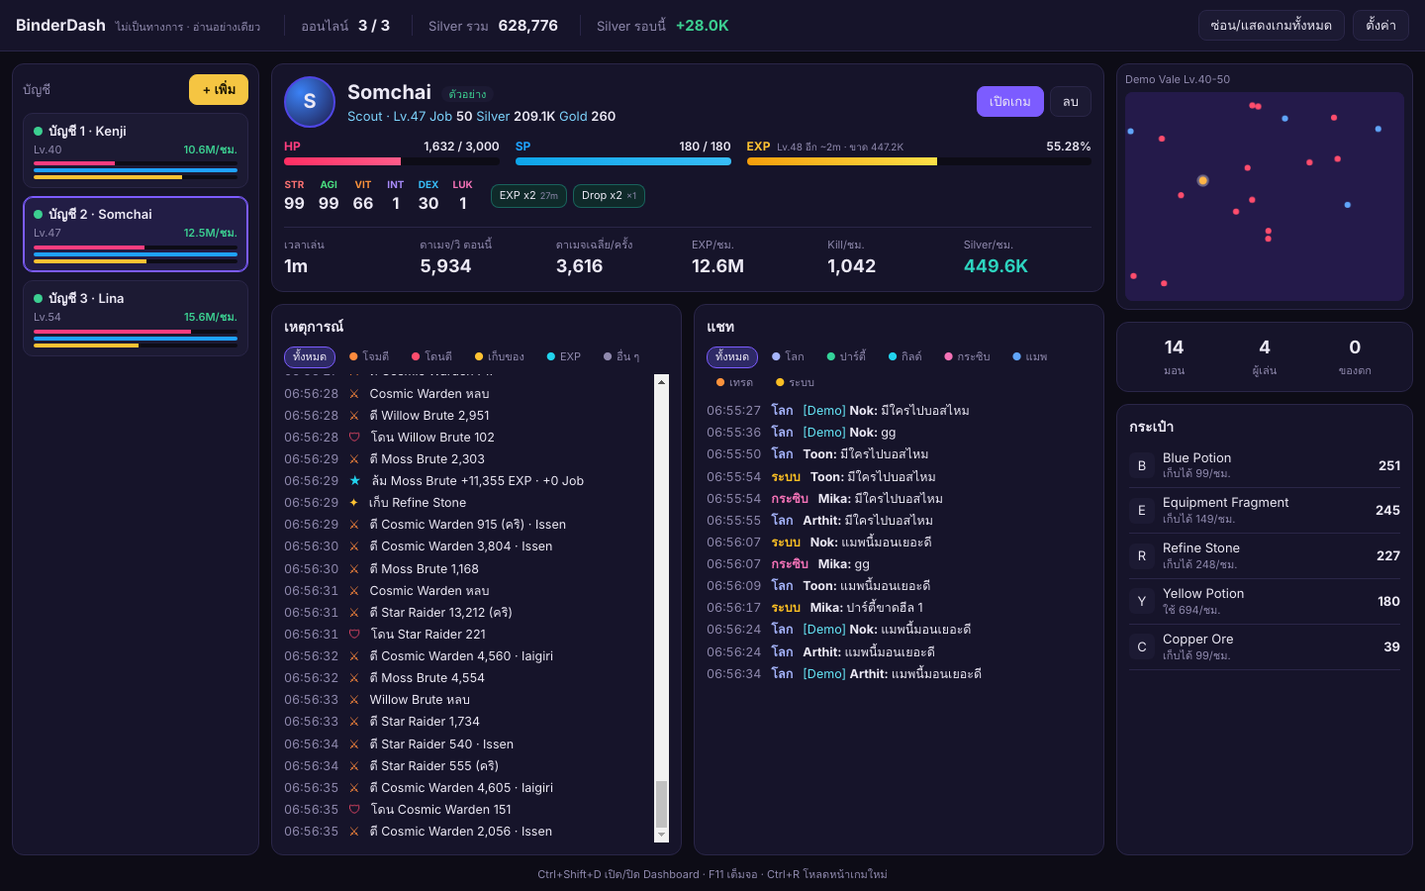
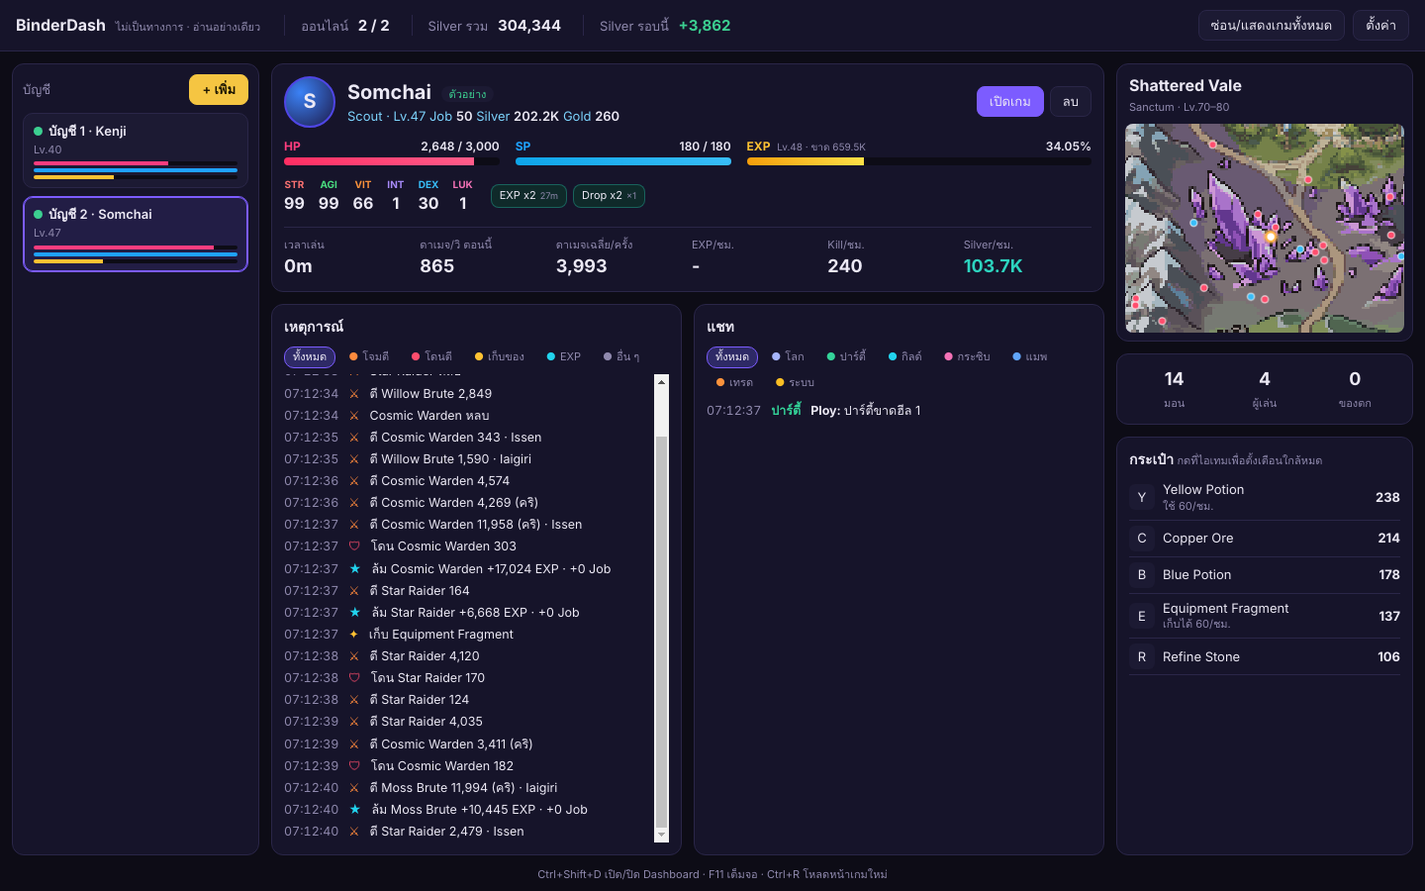
BinderDash: show game windows over the dashboard, map panel with wiki art
'Go to game' opens/restores the game window centred over the dashboard
unless the user moved it; buttons get tooltips; window titles end with
'— Binder Town'. Map panel shows map name, region and level range from a
map list taken from the game's wiki, with the wiki's map art behind the
dots. Fix a stale demo name in new game window titles.

Claude-Session: https://claude.ai/code/session_01P2jK8btWnMpPUhvGB43tpy

diff --git a/bindertown-dash/src/dashboard/maps.js b/bindertown-dash/src/dashboard/maps.js
@@ -1,0 +1,83 @@
+// Binder Town maps (names, regions, level ranges) from wiki.bindertowngame.com/maps, Nov 2026.
+// Map pictures are loaded from the wiki at runtime: https://wiki.bindertowngame.com/img/gen/map/<id>.webp
+window.BT_MAPS = [
+  {"id": "valebrook", "name": "Valebrook", "region": "Region A · Valebrook", "kind": "town", "min": null, "max": null},
+  {"id": "southvale_field", "name": "Southvale Field", "region": "Region A · Valebrook", "kind": "field", "min": 1, "max": 4},
+  {"id": "copperbell_arena", "name": "Copperbell Arena", "region": "Region A · Valebrook", "kind": "field", "min": 1, "max": 115},
+  {"id": "honeyrill", "name": "Honeyrill", "region": "Region A · Valebrook", "kind": "field", "min": 3, "max": 8},
+  {"id": "whispering_woods", "name": "Whispering Woods", "region": "Region A · Valebrook", "kind": "field", "min": 4, "max": 9},
+  {"id": "bloomcrown_glade", "name": "Bloomcrown Glade", "region": "Region A · Valebrook", "kind": "boss", "min": null, "max": null},
+  {"id": "riverside", "name": "Riverside", "region": "Region A · Valebrook", "kind": "field", "min": 6, "max": 12},
+  {"id": "bracken_sink", "name": "Bracken Sink", "region": "Region A · Valebrook", "kind": "field", "min": 9, "max": 15},
+  {"id": "old_quarry", "name": "Old Quarry", "region": "Region A · Valebrook", "kind": "field", "min": 10, "max": 16},
+  {"id": "ancient_ruins", "name": "Ancient Ruins", "region": "Region A · Valebrook", "kind": "field", "min": 14, "max": 20},
+  {"id": "verdigris_rise", "name": "Verdigris Rise", "region": "Region A · Valebrook", "kind": "field", "min": 14, "max": 20},
+  {"id": "ranked_hall", "name": "Ranked Hall", "region": "Region A · Valebrook", "kind": "field", "min": 99, "max": 130},
+  {"id": "ashford", "name": "Ashford", "region": "Region B · Ashford", "kind": "town", "min": null, "max": null},
+  {"id": "sunfield_plains", "name": "Sunfield Plains", "region": "Region B · Ashford", "kind": "field", "min": 18, "max": 24},
+  {"id": "gloomroot_forest", "name": "Gloomroot Forest", "region": "Region B · Ashford", "kind": "field", "min": 24, "max": 30},
+  {"id": "pitchwood", "name": "Pitchwood", "region": "Region B · Ashford", "kind": "field", "min": 24, "max": 30},
+  {"id": "ember_hollow", "name": "Ember Hollow", "region": "Region B · Ashford", "kind": "field", "min": 28, "max": 36},
+  {"id": "yellowlick_flats", "name": "Yellowlick Flats", "region": "Region B · Ashford", "kind": "field", "min": 30, "max": 36},
+  {"id": "cinder_eyrie", "name": "Cinder Eyrie", "region": "Region B · Ashford", "kind": "boss", "min": null, "max": null},
+  {"id": "mistmire_swamp", "name": "Mistmire Swamp", "region": "Region B · Ashford", "kind": "field", "min": 34, "max": 40},
+  {"id": "peatcut_bog", "name": "Peatcut Bog", "region": "Region B · Ashford", "kind": "field", "min": 36, "max": 42},
+  {"id": "lotus_hollow", "name": "Lotus Hollow", "region": "Region B · Ashford", "kind": "boss", "min": null, "max": null},
+  {"id": "duskgate_pass", "name": "Duskgate Pass", "region": "Region B · Ashford", "kind": "field", "min": 40, "max": 45},
+  {"id": "stormwall_city", "name": "Stormwall City", "region": "Region C · Stormwall City", "kind": "town", "min": null, "max": null},
+  {"id": "frostpeak_slopes", "name": "Frostpeak Slopes", "region": "Region C · Stormwall City", "kind": "field", "min": 45, "max": 52},
+  {"id": "sledrun_gully", "name": "Sledrun Gully", "region": "Region C · Stormwall City", "kind": "field", "min": 47, "max": 53},
+  {"id": "frozen_mere", "name": "Frozen Mere", "region": "Region C · Stormwall City", "kind": "field", "min": 52, "max": 58},
+  {"id": "brinecrust_shoals", "name": "Brinecrust Shoals", "region": "Region C · Stormwall City", "kind": "field", "min": 54, "max": 60},
+  {"id": "aurora_hollow", "name": "Aurora Hollow", "region": "Region C · Stormwall City", "kind": "boss", "min": null, "max": null},
+  {"id": "howling_steppes", "name": "Howling Steppes", "region": "Region C · Stormwall City", "kind": "field", "min": 58, "max": 64},
+  {"id": "cloudspire_ruins", "name": "Cloudspire Ruins", "region": "Region C · Stormwall City", "kind": "field", "min": 64, "max": 70},
+  {"id": "kitewind_terraces", "name": "Kitewind Terraces", "region": "Region C · Stormwall City", "kind": "field", "min": 64, "max": 70},
+  {"id": "tempest_aerie", "name": "Tempest Aerie", "region": "Region C · Stormwall City", "kind": "boss", "min": null, "max": null},
+  {"id": "sanctum", "name": "Sanctum", "region": "Region D · Sanctum", "kind": "town", "min": null, "max": null},
+  {"id": "shattered_vale", "name": "Shattered Vale", "region": "Region D · Sanctum", "kind": "field", "min": 70, "max": 80},
+  {"id": "glasswrack", "name": "Glasswrack", "region": "Region D · Sanctum", "kind": "field", "min": 72, "max": 80},
+  {"id": "opalweb_grotto", "name": "Opalweb Grotto", "region": "Region D · Sanctum", "kind": "boss", "min": null, "max": null},
+  {"id": "umbral_depths", "name": "Umbral Depths", "region": "Region D · Sanctum", "kind": "field", "min": 80, "max": 90},
+  {"id": "marrowdeep", "name": "Marrowdeep", "region": "Region D · Sanctum", "kind": "field", "min": 82, "max": 90},
+  {"id": "throne_of_warden", "name": "Throne of the Warden", "region": "Region D · Sanctum", "kind": "field", "min": 90, "max": 99},
+  {"id": "rustbell_barracks", "name": "Rustbell Barracks", "region": "Region D · Sanctum", "kind": "field", "min": 92, "max": 99},
+  {"id": "wardens_seat", "name": "Warden's Seat", "region": "Region D · Sanctum", "kind": "boss", "min": null, "max": null},
+  {"id": "tidehaven", "name": "Tidehaven", "region": "Region E · Tidehaven", "kind": "town", "min": null, "max": null},
+  {"id": "crown_of_tides", "name": "Crown of Tides", "region": "Region E · Tidehaven", "kind": "town", "min": null, "max": null},
+  {"id": "wreckwake_coast", "name": "Wreckwake Coast", "region": "Region E · Tidehaven", "kind": "field", "min": 99, "max": 102},
+  {"id": "nacre_lagoon", "name": "Nacre Lagoon", "region": "Region E · Tidehaven", "kind": "field", "min": 99, "max": 130},
+  {"id": "keelbreak_cove", "name": "Keelbreak Cove", "region": "Region E · Tidehaven", "kind": "boss", "min": null, "max": null},
+  {"id": "lanternrice_delta", "name": "Lanternrice Delta", "region": "Region E · Tidehaven", "kind": "field", "min": 101, "max": 104},
+  {"id": "ricewater_shrine", "name": "Ricewater Shrine", "region": "Region E · Tidehaven", "kind": "boss", "min": null, "max": null},
+  {"id": "coralstep_plateau", "name": "Coralstep Plateau", "region": "Region E · Tidehaven", "kind": "field", "min": 103, "max": 106},
+  {"id": "coralhorn_shelf", "name": "Coralhorn Shelf", "region": "Region E · Tidehaven", "kind": "boss", "min": null, "max": null},
+  {"id": "drowned_forum", "name": "Drowned Forum", "region": "Region E · Tidehaven", "kind": "field", "min": 105, "max": 108},
+  {"id": "magistrates_basin", "name": "Magistrate's Basin", "region": "Region E · Tidehaven", "kind": "boss", "min": null, "max": null},
+  {"id": "stormrail_causeway", "name": "Stormrail Causeway", "region": "Region E · Tidehaven", "kind": "field", "min": 107, "max": 110},
+  {"id": "thunderline_depot", "name": "Thunderline Depot", "region": "Region E · Tidehaven", "kind": "boss", "min": null, "max": null},
+  {"id": "shellforge_basin", "name": "Shellforge Basin", "region": "Region E · Tidehaven", "kind": "field", "min": 110, "max": 113},
+  {"id": "searing_kilnyard", "name": "Searing Kilnyard", "region": "Region E · Tidehaven", "kind": "boss", "min": null, "max": null},
+  {"id": "moonpool_gardens", "name": "Moonpool Gardens", "region": "Region E · Tidehaven", "kind": "field", "min": 113, "max": 116},
+  {"id": "brinewick_saltworks", "name": "Brinewick Saltworks", "region": "Region E · Tidehaven", "kind": "field", "min": 115, "max": 118},
+  {"id": "saltwight_pans", "name": "Saltwight Pans", "region": "Region E · Tidehaven", "kind": "boss", "min": null, "max": null},
+  {"id": "the_inverted_sea", "name": "The Inverted Sea", "region": "Region E · Tidehaven", "kind": "field", "min": 117, "max": 120},
+  {"id": "upturned_strand", "name": "Upturned Strand", "region": "Region E · Tidehaven", "kind": "boss", "min": null, "max": null},
+  {"id": "tidepool_terraces", "name": "Tidepool Terraces", "region": "Region E · Tidehaven", "kind": "field", "min": 119, "max": 122},
+  {"id": "pearlgrave_trench", "name": "Pearlgrave Trench", "region": "Region E · Tidehaven", "kind": "field", "min": 120, "max": 123},
+  {"id": "tidemill_expanse", "name": "Tidemill Expanse", "region": "Region E · Tidehaven", "kind": "field", "min": 121, "max": 124},
+  {"id": "gullrock_rookery", "name": "Gullrock Rookery", "region": "Region E · Tidehaven", "kind": "field", "min": 122, "max": 125},
+  {"id": "leviathan_spine", "name": "Leviathan Spine", "region": "Region E · Tidehaven", "kind": "field", "min": 123, "max": 126},
+  {"id": "marrowfall_gorge", "name": "Marrowfall Gorge", "region": "Region E · Tidehaven", "kind": "boss", "min": null, "max": null},
+  {"id": "bellglass_cathedral", "name": "Bellglass Cathedral", "region": "Region E · Tidehaven", "kind": "field", "min": 124, "max": 127},
+  {"id": "kelpgate_locks", "name": "Kelpgate Locks", "region": "Region E · Tidehaven", "kind": "field", "min": 125, "max": 128},
+  {"id": "lockwardens_sluice", "name": "Lockwarden's Sluice", "region": "Region E · Tidehaven", "kind": "boss", "min": null, "max": null},
+  {"id": "training_grounds", "name": "Training Grounds", "region": "แมพพิเศษ", "kind": "special", "min": null, "max": null},
+  {"id": "sparring_hall", "name": "Sparring Hall", "region": "แมพพิเศษ", "kind": "special", "min": null, "max": null},
+  {"id": "rootfall_barrow", "name": "Rootfall Barrow", "region": "แมพพิเศษ", "kind": "special", "min": null, "max": null},
+  {"id": "ll_ch1", "name": "Gauntlet · Valebrook Gate", "region": "แมพพิเศษ", "kind": "special", "min": null, "max": null},
+  {"id": "ll_ch2", "name": "Gauntlet · Ashford Gate", "region": "แมพพิเศษ", "kind": "special", "min": null, "max": null},
+  {"id": "ll_ch3", "name": "Gauntlet · Stormwall Gate", "region": "แมพพิเศษ", "kind": "special", "min": null, "max": null},
+  {"id": "ll_ch4", "name": "Gauntlet · Sanctum Gate", "region": "แมพพิเศษ", "kind": "special", "min": null, "max": null},
+  {"id": "ll_ch5", "name": "Gauntlet · The Last Gate", "region": "แมพพิเศษ", "kind": "special", "min": null, "max": null},
+];

diff --git a/bindertown-dash/src/dashboard/dashboard.js b/bindertown-dash/src/dashboard/dashboard.js
@@ -104,16 +104,16 @@ function startRename(a, node) {
 function profileButtons(a) {
   const b = [];
   if (a.status === 'closed' || a.status === 'demo') {
-    b.push(el('button', { class: 'primary', onclick: async () => {
+    b.push(el('button', { class: 'primary', title: 'เปิดหน้าต่างเกมของบัญชีนี้', onclick: async () => {
       const r = await dash.invoke('open', a.id);
       if (r && r.warnFreeLimit) showBanner('เปิดเกิน 3 ตัวแล้ว: ตรวจกฎของเกมเรื่องจำนวนตัวละครต่อ IP ด้วย');
     } }, 'เปิดเกม'));
   } else {
-    b.push(el('button', { onclick: () => dash.invoke('reload', a.id) }, '⟳ รีเฟรช'));
+    b.push(el('button', { title: 'โหลดหน้าเกมใหม่ (เหมือน Ctrl+R) ตอนเกมค้าง', onclick: () => dash.invoke('reload', a.id) }, '⟳ รีเฟรช'));
     b.push(a.hidden
-      ? el('button', { onclick: () => dash.invoke('show', a.id) }, '⧉ ไปที่เกม')
-      : el('button', { onclick: () => dash.invoke('hide', a.id) }, '◌ ซ่อนเกม'));
-    b.push(el('button', { class: 'danger', onclick: () => {
+      ? el('button', { title: 'ไปที่หน้าต่างเกมของบัญชีนี้', onclick: () => dash.invoke('show', a.id) }, '⧉ ไปที่เกม')
+      : el('button', { title: 'ซ่อนแล้วเกมยังเล่นต่อ เรียกกลับได้ที่นี่ หรือที่ไอคอน BinderDash มุมขวาล่าง', onclick: () => dash.invoke('hide', a.id) }, '◌ ซ่อนเกม'));
+    b.push(el('button', { class: 'danger', title: 'ตัวละครออกจากเกม Auto Play หยุด (บัญชียังอยู่ในรายการ)', onclick: () => {
       if (confirm(`ปิดเกมของ ${a.name}? ตัวละครจะออกจากเกม`)) dash.invoke('close', a.id);
     } }, '✕ ปิดเกม'));
   }
@@ -206,18 +206,38 @@ function renderLogs() {
   }));
 }
 
+const MAP_IMG = 'https://wiki.bindertowngame.com/img/gen/map/';
+const KIND_TEXT = { town: 'เมือง', boss: 'ถ้ำ Field Boss', special: 'แมพพิเศษ' };
+function findMap(name) {
+  if (!name || !window.BT_MAPS) return null;
+  const key = String(name).toLowerCase().replace(/\s*lv.*$/, '').trim();
+  return window.BT_MAPS.find((m) => m.id === key || m.name.toLowerCase() === key || m.id === key.replace(/[^a-z0-9]+/g, '_')) || null;
+}
+
 function renderMap() {
   const d = detail || {};
   const w = d.world;
-  $('#d-map').textContent = (d.stats && d.stats.map) || 'แผนที่';
+  const name = d.stats && d.stats.map;
+  const info = findMap(name);
+  $('#d-map').textContent = info ? info.name : name || 'แผนที่';
+  $('#d-map-sub').textContent = info
+    ? [info.region.replace(/^Region [A-Z] · /, ''), info.min != null ? `Lv.${info.min}–${info.max}` : KIND_TEXT[info.kind]].filter(Boolean).join(' · ')
+    : '';
+  const img = $('#map-bg');
+  const src = info ? MAP_IMG + info.id + '.webp' : '';
+  if (img.dataset.src !== src) {
+    img.dataset.src = src;
+    img.hidden = true;
+    if (src) { img.onload = () => { img.hidden = false; }; img.onerror = () => { img.hidden = true; }; img.src = src; }
+  }
   const cv = $('#minimap');
   const ctx = cv.getContext('2d');
-  ctx.fillStyle = '#241a4a';
-  ctx.fillRect(0, 0, cv.width, cv.height);
+  ctx.clearRect(0, 0, cv.width, cv.height);
   $('#c-mon').textContent = w && w.monsters ? w.monsters.length : 0;
   $('#c-ply').textContent = w && w.players ? w.players.length : 0;
   $('#c-drop').textContent = w && w.drops ? w.drops.length : 0;
   if (!w) {
+    if (src) return;
     ctx.fillStyle = '#8f89ad';
     ctx.font = '13px Segoe UI, Tahoma';
     ctx.textAlign = 'center';
@@ -227,9 +247,11 @@ function renderMap() {
   const sx = cv.width / (w.w || 1), sy = cv.height / (w.h || 1);
   const dot = (p, r, c) => { ctx.beginPath(); ctx.arc(p.x * sx, p.y * sy, r, 0, Math.PI * 2); ctx.fillStyle = c; ctx.fill(); };
   for (const p of w.drops || []) dot(p, 3, '#ffc233');
-  for (const p of w.monsters || []) dot(p, 3.5, '#ff4d6d');
-  for (const p of w.players || []) dot(p, 3.5, '#60a5fa');
-  if (w.self) { dot(w.self, 7, '#ffffff55'); dot(w.self, 4.5, '#ffb547'); }
+  ctx.lineWidth = 1.5;
+  ctx.strokeStyle = '#ffffffaa';
+  for (const p of w.monsters || []) { dot(p, 4, '#ff4d6d'); ctx.stroke(); }
+  for (const p of w.players || []) { dot(p, 4, '#38bdf8'); ctx.stroke(); }
+  if (w.self) { dot(w.self, 9, '#ffb54766'); dot(w.self, 5.5, '#ffffff'); ctx.strokeStyle = '#ffb547'; ctx.lineWidth = 2.5; ctx.stroke(); }
 }
 
 let watchEditing = null; // item name whose limit is being edited

diff --git a/bindertown-dash/src/dashboard/index.html b/bindertown-dash/src/dashboard/index.html
@@ -2,7 +2,7 @@
 <html lang="th">
 <head>
   <meta charset="utf-8">
-  <meta http-equiv="Content-Security-Policy" content="default-src 'self'; style-src 'self'; script-src 'self'; img-src 'self' data:">
+  <meta http-equiv="Content-Security-Policy" content="default-src 'self'; style-src 'self'; script-src 'self'; img-src 'self' data: https://wiki.bindertowngame.com">
   <title>BinderDash</title>
   <link rel="stylesheet" href="style.css">
 </head>
@@ -15,8 +15,8 @@
       <span>Silver รอบนี้ <b id="k-silver-run" class="pos">-</b></span>
     </div>
     <div class="actions">
-      <button id="toggle-all" title="ซ่อน/แสดงหน้าต่างเกมทุกบัญชี">ซ่อน/แสดงเกมทั้งหมด</button>
-      <button id="toggle-settings">ตั้งค่า</button>
+      <button id="toggle-all" title="ซ่อน/แสดงหน้าต่างเกมทุกบัญชีพร้อมกัน (เหมือนคลิกไอคอน BinderDash มุมขวาล่าง)">ซ่อน/แสดงเกมทั้งหมด</button>
+      <button id="toggle-settings" title="เปิดหน้าต่างตั้งค่า">ตั้งค่า</button>
     </div>
   </header>
 
@@ -27,7 +27,7 @@
     <aside class="sidebar">
       <div class="side-head">
         <span>บัญชี</span>
-        <button id="add" class="add">+ เพิ่ม</button>
+        <button id="add" class="add" title="เพิ่มบัญชี (สูงสุด 10)">+ เพิ่ม</button>
       </div>
       <div id="accounts"></div>
     </aside>
@@ -68,8 +68,11 @@
 
     <aside class="rightcol">
       <section class="panel mapbox">
-        <div class="maptitle" id="d-map">-</div>
-        <canvas id="minimap" width="320" height="240"></canvas>
+        <div class="maphead"><b id="d-map">แผนที่</b><small id="d-map-sub"></small></div>
+        <div class="mapwrap">
+          <img id="map-bg" alt="" hidden>
+          <canvas id="minimap" width="320" height="240"></canvas>
+        </div>
       </section>
       <section class="panel">
         <div class="counts">
@@ -86,6 +89,7 @@
   </div>
 
   <footer>Ctrl+Shift+D เปิด/ปิด Dashboard · F11 เต็มจอ · Ctrl+R โหลดหน้าเกมใหม่</footer>
+  <script src="maps.js"></script>
   <script src="dashboard.js"></script>
 </body>
 </html>

diff --git a/bindertown-dash/src/main.js b/bindertown-dash/src/main.js
@@ -118,7 +118,16 @@ function setAlert(id, key, on, text) {
 function windowTitle(id) {
   const a = account(id);
   const n = rt(id).data.stats.name;
-  return n ? `${a.name} · ${n}` : a.name;
+  return `${n ? `${a.name} · ${n}` : a.name} — Binder Town`;
+}
+
+// Put a game window over the middle of the Dashboard (unless the user has moved it themselves)
+function placeOverDashboard(win) {
+  if (!dashboard || dashboard.isDestroyed() || !dashboard.isVisible() || dashboard.isMinimized()) return;
+  const d = dashboard.getBounds();
+  const width = Math.min(1280, Math.round(d.width * 0.85));
+  const height = Math.min(800, Math.round(d.height * 0.85));
+  win.setBounds({ x: d.x + Math.round((d.width - width) / 2), y: d.y + Math.round((d.height - height) / 2), width, height });
 }
 
 function isGameUrl(url) {
@@ -133,11 +142,14 @@ function openGame(id) {
   if (!a) return;
   const g = rt(id);
   if (g.win && !g.win.isDestroyed()) return showGame(id);
+  g.demo = null;
+  g.data.reset();
 
   const win = new BrowserWindow({
     width: 1280,
     height: 800,
-    title: a.name,
+    show: false,
+    title: windowTitle(id),
     icon: nativeImage.createFromDataURL(icons.normal),
     autoHideMenuBar: true,
     webPreferences: {
@@ -149,11 +161,14 @@ function openGame(id) {
     },
   });
   g.win = win;
+  g.userPlaced = false;
+  placeOverDashboard(win);
+  win.once('ready-to-show', () => { if (!win.isDestroyed()) win.show(); });
+  setTimeout(() => { if (!win.isDestroyed() && !win.isVisible()) win.show(); }, 3000);
+  win.on('moved', () => { g.userPlaced = true; });
   g.status = 'loading';
   g.alerts.clear();
   g.loadedAt = Date.now();
-  g.demo = null;
-  g.data.reset();
   updateSleepBlocker();
 
   win.on('page-title-updated', (e) => { e.preventDefault(); win.setTitle(windowTitle(id)); });
@@ -268,6 +283,7 @@ function showGame(id) {
   const g = rt(id);
   if (!g.win || g.win.isDestroyed()) return openGame(id);
   if (g.win.isMinimized()) g.win.restore();
+  if (!g.win.isVisible() && !g.userPlaced) placeOverDashboard(g.win);
   g.win.show();
   g.win.focus();
 }

diff --git a/bindertown-dash/src/dashboard/style.css b/bindertown-dash/src/dashboard/style.css
@@ -110,8 +110,12 @@ h3 { font-size: 14px; margin: 0; }
 /* right column */
 .rightcol { display: flex; flex-direction: column; gap: 12px; min-height: 0; }
 .mapbox { padding: 8px; }
-.maptitle { font-size: 11px; color: var(--muted); margin-bottom: 4px; }
-#minimap { width: 100%; height: auto; border-radius: 8px; background: #241a4a; display: block; }
+.maphead { padding: 2px 4px 8px; }
+.maphead b { display: block; font-size: 16px; }
+.maphead small { color: var(--muted); font-size: 11px; }
+.mapwrap { position: relative; border-radius: 8px; overflow: hidden; background: #241a4a; aspect-ratio: 4 / 3; }
+.mapwrap img { position: absolute; inset: 0; width: 100%; height: 100%; object-fit: cover; image-rendering: pixelated; filter: saturate(.9) brightness(.85); }
+#minimap { position: absolute; inset: 0; width: 100%; height: 100%; display: block; }
 .counts { display: grid; grid-template-columns: repeat(3, 1fr); text-align: center; }
 .counts b { display: block; font-size: 18px; }
 .counts span { color: var(--muted); font-size: 11px; }

diff --git a/bindertown-dash/src/demo.js b/bindertown-dash/src/demo.js
@@ -22,6 +22,7 @@ class DemoFeed {
     this.players = Array.from({ length: 4 }, () => ({ x: Math.random(), y: Math.random(), name: pick(NAMES) }));
     this.self = { x: 0.5, y: 0.5 };
     this.tickN = 0;
+    this.seed = seed;
     this.name = ['Kenji', 'Somchai', 'Lina', 'Pim'][seed % 4];
     this.job = ['Kensei', 'Scout', 'Acolyte', 'Mage'][seed % 4];
   }
@@ -64,7 +65,7 @@ class DemoFeed {
     out.push({
       type: 'self', name: this.name, job: this.job, level: this.level, jobLevel: 50, hp: this.hp, maxHp: this.maxHp,
       sp: this.sp, maxSp: this.maxSp, exp: this.exp, maxExp: this.maxExp, silver: this.silver, gold: 260,
-      str: 99, agi: 99, vit: 66, int: 1, dex: 30, luk: 1, map: 'Demo Vale Lv.40-50',
+      str: 99, agi: 99, vit: 66, int: 1, dex: 30, luk: 1, map: ['Frostpeak Slopes', 'Shattered Vale', 'Umbral Depths', 'Moonpool Gardens'][this.seed % 4],
     });
     if (this.tickN % 5 === 1) {
       out.push({ type: 'bag', items: Object.entries(this.bag).map(([name, qty]) => ({ name, qty })) });

diff --git a/bindertown-dash/README.md b/bindertown-dash/README.md
@@ -12,6 +12,8 @@
 - หน้าต่างตั้งค่าแยก (ทั่วไป / แจ้งเตือน / Telegram / ข้อมูล / เกี่ยวกับ): เปิด Dashboard พร้อมโปรแกรม, เปิดทุกบัญชีตอนเริ่ม, เปลี่ยนเซิร์ฟเวอร์เกม, ล้างคุกกี้, ล้างแคช, คืน RAM หน้าเกมเอง, เปิด/ปิดแจ้งเตือนทีละแบบ, เสียง
 - แจ้งเตือนไอเทมใกล้หมด: กดที่ไอเทมในกระเป๋าบน Dashboard แล้วใส่จำนวน · ไม่เตือนบัญชีที่กำลังเล่นอยู่ (หน้าต่างเกมที่เปิดหน้าอยู่)
 - โหมดตัวอย่าง (ตั้งค่า › ข้อมูล) ใช้ข้อมูลปลอมไว้ดูหน้าตา Dashboard ได้โดยไม่ต้องเข้าเกม
+- "ไปที่เกม" เปิดหน้าต่างเกมกลาง Dashboard (ถ้าลากย้ายเองแล้วจะจำตำแหน่งไว้) · ปุ่มมีคำอธิบายเมื่อชี้
+- แผนที่: ชื่อแมพ ภูมิภาค ช่วงเลเวล และรูปแมพจาก wiki ของเกม (`src/dashboard/maps.js`) พร้อมจุดตัวเรา มอน ผู้เล่น
 - ซ่อนเกม = เกมเล่นต่อเต็มความเร็ว (ไม่ถูกลดความเร็วตอนย่อ/ซ่อน) · ปิดเกม = ตัวละครออกจากเกม
 - ไอคอนมุมขวาล่าง: คลิกเพื่อซ่อน/แสดงทุกบัญชี · มีจุดแดงเมื่อมีเรื่องต้องดู
 - แจ้งเตือน Windows (+ Telegram ถ้าต้องการ): หลุดจากเซิร์ฟเวอร์, ไม่มีข้อมูลจากเกม (AUTO อาจหยุด), หน้าเกมค้าง, เกมปิดปรับปรุง
